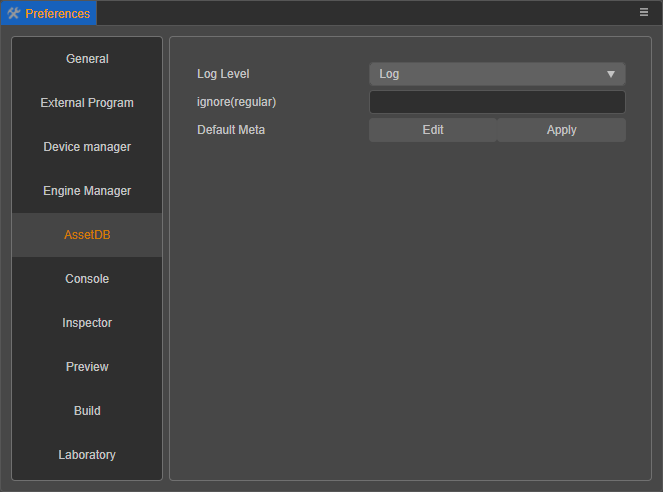
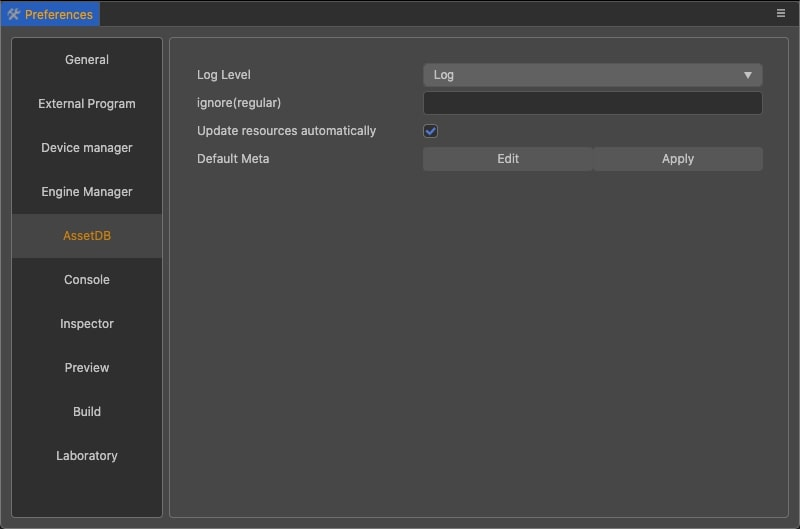
自动刷新的文档

diff --git a/en/editor/preferences/index.md b/en/editor/preferences/index.md
@@ -76,6 +76,14 @@ The **Asset database** tab is used to set the [Assets](../assets/index.md) panel
 - **Ignore (Regular)**: use a regular expression and fill in the path to a specific asset file, then that asset will be ignored.
 - **Default Meta**: used to set the default configuration when importing assets within a project. Please refer to the description below for details.
 
+### Update resources automatically
+
+When we do resource manipulation outside of Creator, back in Creator. Creator does a resource check. When the number of files is too high, or the disk random read and write speed is too low, it will cause the resource system response lag. For example, when you click on a resource, the Inspector takes a while to show up.
+
+At this point, we can turn off the automatic refresh function of Creator, but after turning off this function, we need to click the refresh button in the Assets panel to refresh actively when we have done the resource operation.
+
+So it is not recommended to turn this option off if you are not experiencing resource system response problems.
+
 ### Default Meta
 
 This option is used to set the default configuration when importing assets into the project. For example, if want the imported image to be `sprite-frame` by default, then click on the **Edit** button to the right of this option and fill in the following in the `json` file that opens:

diff --git a/zh/editor/preferences/index.md b/zh/editor/preferences/index.md
@@ -74,6 +74,14 @@
 - **忽略文件（正则）**：使用正则表达式，填入具体资源文件的路径，则该资源将会被忽略。
 - **默认 Meta**：用于设置项目内资源导入时的默认配置。详情参考下文介绍。
 
+### 自动刷新资源
+
+当我们在 Creator 外进行资源操作，回到 Creator 的时候。Creator 会进行一个资源的检查。当文件数量过多，或者硬盘随机读写速度偏低的时候，就会造成资源系统响应延迟。例如点击资源，inspector 延迟一会儿才显示。
+
+这时候我们可以关闭 Creator 的自动刷新功能，但关闭该功能后，当我们确实进行了资源操作的时候，需要点击 assets 面板上的刷新按钮主动刷新。
+
+所以如果没有遇到资源系统响应问题，不建议关闭这个选项。
+
 ### 默认 meta
 
 该项用于设置项目内资源导入时的默认配置。例如希望导入的图片默认为 sprite-frame 类型，那么便可以点击该项右侧的 **编辑** 按钮，然后在打开的 json 文件中填入以下内容：
